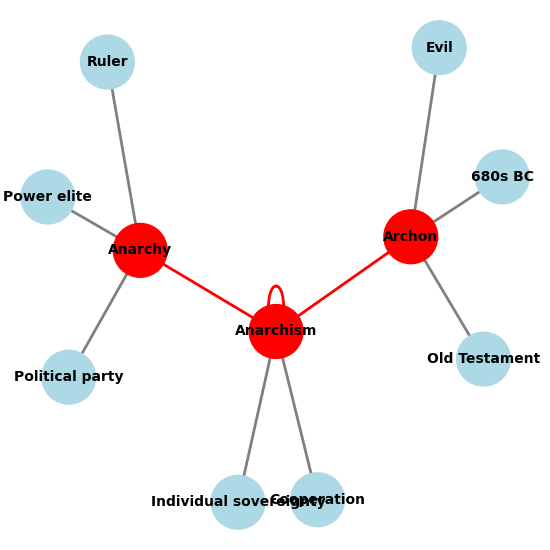
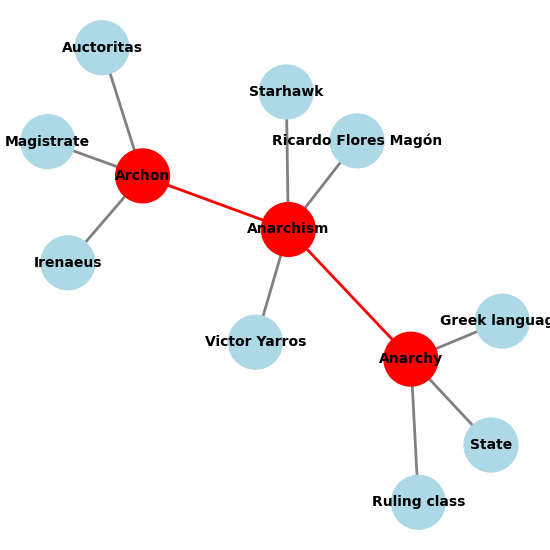
visualization img should update, last push didn't work

diff --git a/app.py b/app.py
@@ -52,7 +52,7 @@ def dfs():
         image_url = f"{image_filename}?t={int(time.time())}"
 
         # Return the image URL to the frontend
-        return jsonify(result=final_message, image_url=image_filename)
+        return jsonify(result=final_message, image_url=image_url)
     else:
         return jsonify(result=final_message)
 
@@ -80,8 +80,11 @@ def bfs():
         G = visualize.get_graph_with_path(path)
         visualize.visualize_graph_with_path(G, path, image_filename)
 
+        # Add a unique query string to the image URL so that it'll update the image even if cached
+        image_url = f"{image_filename}?t={int(time.time())}"
+
         # Return the image URL to the frontend
-        return jsonify(result=final_message, image_url=image_filename)
+        return jsonify(result=final_message, image_url=image_url)
     else:
         return jsonify(result=final_message)
 
